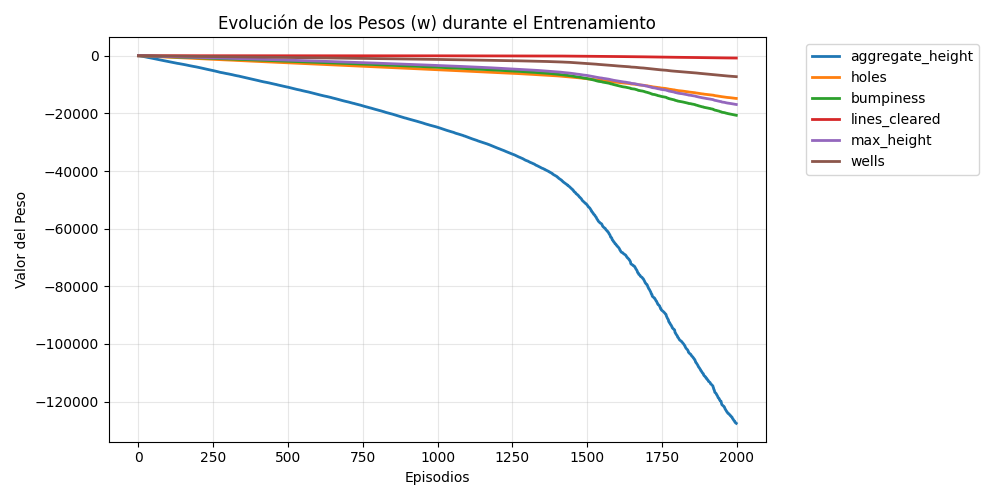
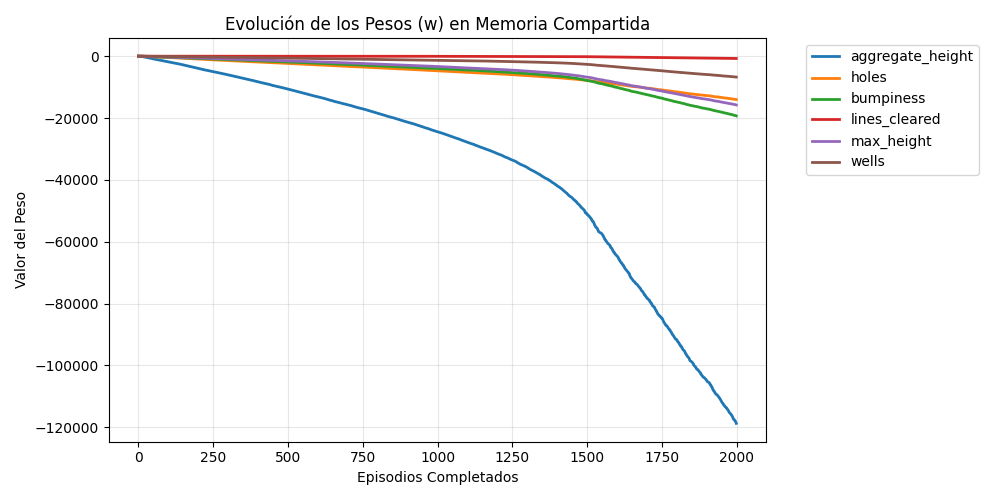
optimizar tiempo de entrenamiento mediante paralelización

diff --git a/train_td.py b/train_td.py
@@ -1,95 +1,140 @@
 """Script principal para entrenar el agente TD(0) en Tetris.
-
-Ejecutar desde la raíz del proyecto:
-$ python train_td.py
+Versión: Paralelización Asíncrona con Memoria Compartida (Sin Mini-batch).
 """
 
 import os
 import time
+import ctypes
+import multiprocessing as mp
 import numpy as np
 import matplotlib.pyplot as plt
 
-# Importamos nuestro entorno y el agente
 from src.tetris_rl.env.tetris_env import TetrisEnv
 from src.tetris_rl.agents.td_agent import TDAgent
 from src.tetris_rl.features import FEATURE_NAMES
 
+# --- Variables Globales para los Trabajadores (Workers) ---
+# Estas variables apuntarán a la memoria RAM compartida entre todos los núcleos
+shared_weights_array = None
+shared_lock = None
+
+def init_worker(shared_arr, lock_obj):
+    """Inicializa los punteros a la memoria compartida en cada núcleo."""
+    global shared_weights_array
+    global shared_lock
+    shared_weights_array = shared_arr
+    shared_lock = lock_obj
+
+def play_episode_async(args):
+    """Juega un episodio y suma su aprendizaje directamente a la memoria global."""
+    episode_id, alpha, gamma, epsilon, max_steps = args
+    
+    env = TetrisEnv()
+    
+    # 1. Leemos los pesos más recientes de la memoria compartida de forma segura
+    with shared_lock:
+        local_weights = np.array(shared_weights_array[:], dtype=np.float64)
+        
+    agent = TDAgent(alpha=alpha, gamma=gamma, epsilon=epsilon, weights=local_weights)
+    
+    env.reset()
+    placements = env.legal_placements()
+    action = agent.select(placements)
+    
+    step_count = 0
+    while not env.done and action is not None and step_count < max_steps:
+        step_count += 1
+        phi_current = agent._get_phi(action)
+        
+        _, reward, done, _ = env.step(action)
+        
+        if done:
+            agent.update(phi_current, reward, phi_next=None)
+            break
+            
+        next_placements = env.legal_placements()
+        next_action = agent.select(next_placements)
+        
+        if next_action is None:
+            agent.update(phi_current, reward, phi_next=None)
+            break
+            
+        phi_next = agent._get_phi(next_action)
+        agent.update(phi_current, reward, phi_next)
+        action = next_action
+        
+    # 2. Calculamos TODO lo que este hilo aprendió (el Delta completo)
+    delta_w = agent.weights - local_weights
+    
+    # 3. Sumamos nuestro Delta a los pesos globales directamente en RAM
+    with shared_lock:
+        for i in range(len(shared_weights_array)):
+            shared_weights_array[i] += delta_w[i]
+            
+    return episode_id, env.lines_cleared, step_count
+
 def train(
-    episodes: int = 2000,
-    alpha: float = 0.001,
+    total_episodes: int = 2000,
+    alpha: float = 0.0001,
     gamma: float = 0.99,
     initial_epsilon: float = 0.5,
     min_epsilon: float = 0.01,
-    epsilon_decay_episodes: int = 1500
+    epsilon_decay_episodes: int = 1500,
+    max_steps_per_episode: int = 2000
 ):
-    print(f"--- Iniciando Entrenamiento TD(0) por {episodes} episodios ---")
+    num_cores = max(1, mp.cpu_count() - 1)
+    print(f"--- Iniciando Entrenamiento Asíncrono en {num_cores} núcleos ---")
     
-    env = TetrisEnv()
-    agent = TDAgent(alpha=alpha, gamma=gamma, epsilon=initial_epsilon)
+    # Creamos un Array en la memoria RAM y un candado (Lock) para evitar sobreescrituras
+    shared_arr = mp.Array(ctypes.c_double, len(FEATURE_NAMES))
+    lock_obj = mp.Lock()
     
-    # Historial para estadísticas
+    # Pre-calculamos el decaimiento de epsilon para cada episodio
+    def get_eps(ep):
+        if ep <= epsilon_decay_episodes:
+            return initial_epsilon - (initial_epsilon - min_epsilon) * (ep / epsilon_decay_episodes)
+        return min_epsilon
+
+    worker_args = [
+        (ep, alpha, gamma, get_eps(ep), max_steps_per_episode) 
+        for ep in range(1, total_episodes + 1)
+    ]
+    
     history_lines = []
     history_weights = []
     start_time = time.time()
+    completed_episodes = 0
     
-    for episode in range(1, episodes + 1):
-        env.reset()
+    # Iniciamos el Pool inyectando la memoria compartida
+    with mp.Pool(processes=num_cores, initializer=init_worker, initargs=(shared_arr, lock_obj)) as pool:
         
-        # 1. Obtenemos las opciones iniciales
-        placements = env.legal_placements()
-        
-        # 2. Elegimos la primera acción (A_t)
-        action = agent.select(placements)
-        
-        while not env.done and action is not None:
-            # Extraemos las características del afterstate actual (S_t)
-            phi_current = agent._get_phi(action)
+        # imap_unordered nos devuelve los resultados en el instante exacto en que un hilo termina
+        for result in pool.imap_unordered(play_episode_async, worker_args):
+            ep_id, lines, steps = result
+            completed_episodes += 1
             
-            # 3. Ejecutamos la acción en el entorno
-            _, reward, done, _ = env.step(action)
+            history_lines.append(lines)
             
-            if done:
-                # Si el juego terminó, no hay estado siguiente
-                agent.update(phi_current, reward, phi_next=None)
-                break
-                
-            # 4. Obtenemos el siguiente estado y elegimos la siguiente acción (S_{t+1}, A_{t+1})
-            next_placements = env.legal_placements()
-            next_action = agent.select(next_placements)
+            # Guardamos el estado actual de los pesos para la gráfica
+            with lock_obj:
+                current_weights = np.array(shared_arr[:])
+            history_weights.append(current_weights)
             
-            if next_action is None:
-                # Top-out (no hay jugadas legales)
-                agent.update(phi_current, reward, phi_next=None)
-                break
-                
-            phi_next = agent._get_phi(next_action)
-            
-            # 5. Aplicamos la regla TD(0) / SARSA
-            agent.update(phi_current, reward, phi_next)
-            
-            # Avanzamos al siguiente paso
-            action = next_action
-            
-        # Registramos las estadísticas del episodio
-        history_lines.append(env.lines_cleared)
-        history_weights.append(agent.weights.copy())
-        
-        # Decaimiento lineal de Epsilon (explorar menos, explotar más)
-        if episode <= epsilon_decay_episodes:
-            agent.epsilon = initial_epsilon - (initial_epsilon - min_epsilon) * (episode / epsilon_decay_episodes)
-        
-        # Logs en consola cada 100 episodios
-        if episode % 100 == 0:
-            avg_lines = np.mean(history_lines[-100:])
-            max_lines = np.max(history_lines[-100:])
-            weights_str = ", ".join([f"{w:5.2f}" for w in agent.weights])
-            print(f"Episodio {episode:4d} | Líneas (Promedio: {avg_lines:5.1f} | Max: {max_lines:4d}) | eps: {agent.epsilon:.3f}")
-            print(f"   Pesos: [{weights_str}]")
-            
-    # Al finalizar, guardamos los pesos aprendidos
+            # Imprimir progreso cada 100 episodios completados
+            if completed_episodes % 100 == 0:
+                avg_lines = np.mean(history_lines[-100:])
+                max_lines = np.max(history_lines[-100:])
+                weights_str = ", ".join([f"{w:5.2f}" for w in current_weights])
+                # Estimamos el epsilon actual basándonos en el episodio completado
+                current_eps = get_eps(completed_episodes) 
+                print(f"Episodios {completed_episodes-99:4d}-{completed_episodes:4d} | Líneas (Promedio: {avg_lines:5.1f} | Max: {max_lines:4d}) | eps: {current_eps:.3f}")
+                print(f"   Pesos: [{weights_str}]")
+
+    # Guardado final
     os.makedirs("models", exist_ok=True)
     save_path = os.path.join("models", "td_weights.npy")
-    agent.save_weights(save_path)
+    final_weights = np.array(shared_arr[:])
+    np.save(save_path, final_weights)
     
     elapsed = time.time() - start_time
     print(f"\n--- Entrenamiento Finalizado en {elapsed:.1f} segundos ---")
@@ -99,37 +144,33 @@ def train(
     print("Generando gráficas de entrenamiento...")
     os.makedirs("plots", exist_ok=True)
     
-    # Gráfica 1: Curva de Aprendizaje (Líneas)
     plt.figure(figsize=(10, 5))
     plt.plot(history_lines, alpha=0.3, color='blue', label='Líneas (bruto)')
     window = 50
     if len(history_lines) >= window:
         ma = np.convolve(history_lines, np.ones(window)/window, mode='valid')
         plt.plot(range(window-1, len(history_lines)), ma, color='red', linewidth=2, label=f'Media móvil ({window})')
-    plt.title('Curva de Aprendizaje: Líneas Limpiadas por Episodio')
-    plt.xlabel('Episodios')
+    plt.title(f'Curva de Aprendizaje Asíncrona (Truncado a {max_steps_per_episode} pasos)')
+    plt.xlabel('Episodios Completados')
     plt.ylabel('Líneas')
     plt.legend()
     plt.grid(True, alpha=0.3)
     plt.savefig(os.path.join("plots", "curva_aprendizaje.png"))
     plt.close()
 
-    # Gráfica 2: Evolución de los Pesos
     plt.figure(figsize=(10, 5))
     weights_array = np.array(history_weights)
     for i, name in enumerate(FEATURE_NAMES):
         plt.plot(weights_array[:, i], label=name, linewidth=2)
-    plt.title('Evolución de los Pesos (w) durante el Entrenamiento')
-    plt.xlabel('Episodios')
+    plt.title('Evolución de los Pesos (w) en Memoria Compartida')
+    plt.xlabel('Episodios Completados')
     plt.ylabel('Valor del Peso')
     plt.legend(bbox_to_anchor=(1.05, 1), loc='upper left')
     plt.grid(True, alpha=0.3)
-    plt.tight_layout() # Evita que la leyenda se corte al guardar
+    plt.tight_layout()
     plt.savefig(os.path.join("plots", "evolucion_pesos.png"))
     plt.close()
-    
-    print("Gráficas guardadas en el directorio 'plots/'.")
 
 if __name__ == "__main__":
-    # Reducimos alpha y aumentamos episodios, ya que ahora aprenderá más lento pero seguro
-    train(episodes=2000, alpha=0.0001)
+    mp.freeze_support() 
+    train(total_episodes=2000, alpha=0.0001)